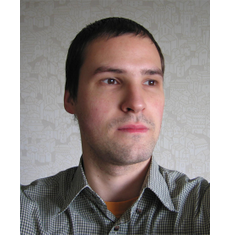
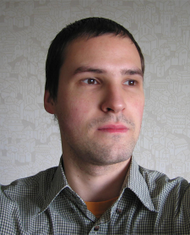
fixed photos layout in talks block fixed link colors

diff --git a/app/build/css/merged.css b/app/build/css/merged.css
@@ -1,3 +1,3 @@
 @import url("https://fonts.googleapis.com/css?family=Open+Sans:300,400,600,700&subset=cyrillic");
-/*! normalize.css v4.1.1 | MIT License | github.com/necolas/normalize.css */html{font-family:sans-serif;-ms-text-size-adjust:100%;-webkit-text-size-adjust:100%}body{margin:0}article,aside,details,figcaption,figure,footer,header,main,menu,nav,section,summary{display:block}audio,canvas,progress,video{display:inline-block}audio:not([controls]){display:none;height:0}progress{vertical-align:baseline}[hidden],template{display:none}a{background-color:transparent;-webkit-text-decoration-skip:objects}a:active,a:hover{outline-width:0}abbr[title]{border-bottom:none;text-decoration:underline;text-decoration:underline dotted}b,strong{font-weight:inherit;font-weight:bolder}dfn{font-style:italic}h1{font-size:2em;margin:.67em 0}mark{background-color:#ff0;color:#000}small{font-size:80%}sub,sup{font-size:75%;line-height:0;position:relative;vertical-align:baseline}sub{bottom:-.25em}sup{top:-.5em}img{border-style:none}svg:not(:root){overflow:hidden}code,kbd,pre,samp{font-family:monospace,monospace;font-size:1em}figure{margin:1em 40px}hr{box-sizing:content-box;height:0;overflow:visible}button,input,select,textarea{font:inherit;margin:0}optgroup{font-weight:700}button,input{overflow:visible}button,select{text-transform:none}[type=reset],[type=submit],button,html [type=button]{-webkit-appearance:button}[type=button]::-moz-focus-inner,[type=reset]::-moz-focus-inner,[type=submit]::-moz-focus-inner,button::-moz-focus-inner{border-style:none;padding:0}[type=button]:-moz-focusring,[type=reset]:-moz-focusring,[type=submit]:-moz-focusring,button:-moz-focusring{outline:1px dotted ButtonText}fieldset{border:1px solid silver;margin:0 2px;padding:.35em .625em .75em}legend{box-sizing:border-box;color:inherit;display:table;max-width:100%;padding:0;white-space:normal}textarea{overflow:auto}[type=checkbox],[type=radio]{box-sizing:border-box;padding:0}[type=number]::-webkit-inner-spin-button,[type=number]::-webkit-outer-spin-button{height:auto}[type=search]{-webkit-appearance:textfield;outline-offset:-2px}[type=search]::-webkit-search-cancel-button,[type=search]::-webkit-search-decoration{-webkit-appearance:none}::-webkit-input-placeholder{color:inherit;opacity:.54}::-webkit-file-upload-button{-webkit-appearance:button;font:inherit}html{font-size:5vmin;overflow-x:hidden;font-family:Open Sans,sans-serif;color:#4f4f4f}h1,h2,h3,h4,h5,h6{color:#2b2a29}.mixin-flex{display:-webkit-box;display:-ms-flexbox;display:flex;-ms-flex-negative:0;flex-shrink:0;-webkit-box-flex:0;-ms-flex-positive:0;flex-grow:0}.cpp-r{width:100vw}.cpp-r_wrap{width:100vw;box-sizing:border-box;padding:.8rem}.cpp-r_footer{min-height:4.5rem;background:#2b2a29;color:#fff;box-sizing:border-box;padding-top:.5rem;font-size:1rem;font-weight:400;line-height:1.5rem}.cpp-b_responsive-row-cols{-ms-flex-negative:0;flex-shrink:0;-ms-flex-wrap:wrap;flex-wrap:wrap}.cpp-b_responsive-row-cols,.cpp-b_responsive-row-cols .row-col{display:-webkit-box;display:-ms-flexbox;display:flex;-webkit-box-orient:vertical;-webkit-box-direction:normal;-ms-flex-direction:column;flex-direction:column}.cpp-b_responsive-row-cols .row-col{-webkit-box-align:center;-ms-flex-align:center;align-items:center;padding-bottom:1rem}.cpp-b_main-menu .cpp-b_main-menu-links{-ms-flex-wrap:wrap;flex-wrap:wrap;font-size:1rem;font-weight:300;line-height:2.375rem;-webkit-box-orient:vertical;-webkit-box-direction:normal;-ms-flex-direction:column;flex-direction:column;padding-top:1rem;padding-bottom:1rem}.cpp-b_main-menu .cpp-b_main-menu-links .main-menu_link{display:-webkit-box;display:-ms-flexbox;display:flex;margin-right:1.55rem}.cpp-b_main-menu .cpp-b_main-menu-links .main-menu_link a{display:-webkit-box;display:-ms-flexbox;display:flex;text-decoration:none;color:#4f4f4f}.cpp-b_main-menu .cpp-b_main-menu-links .main-menu_link a:hover{color:#5fb12c}.cpp-b_contacts{display:-webkit-box;display:-ms-flexbox;display:flex;-webkit-box-orient:vertical;-webkit-box-direction:normal;-ms-flex-direction:column;flex-direction:column;position:relative}.cpp-b_contacts .cpp-e_contact{font-size:1.125rem;font-weight:700;padding-left:2.37rem;height:1.5rem;-webkit-box-align:center;-ms-flex-align:center;align-items:center;margin-bottom:1rem;-ms-flex-negative:0;flex-shrink:0;white-space:nowrap;color:#4f4f4f}.cpp-b_contacts .cpp-e_contact a{color:inherit;text-decoration:none}.cpp-b_contacts .cpp-e_contact a:hover{color:#5fb12c}.cpp-b_contacts .cpp-e_contact.phone{background:url(../template/icon-call.svg) no-repeat 0 50%;background-size:auto 100%}.cpp-b_contacts .cpp-e_contact.email{background:url(../template/icon-mail.svg) no-repeat 0 78%;background-size:auto 1rem}.cpp-b_program-day{overflow:scroll;padding-left:.5rem;margin-bottom:4rem}.cpp-b_program-day .date{font-size:2.188rem;font-weight:300;position:relative;top:-.75rem;margin-bottom:0;color:#5fb12c}.cpp-b_program-day table{border:1px solid;border-collapse:collapse;box-sizing:border-box;table-layout:fixed;background:#fff}.cpp-b_program-day table tr,.cpp-b_program-day table tr td,.cpp-b_program-day table tr th{border:1px solid}.cpp-b_program-day table tr th{font-size:1.125rem;font-weight:700;line-height:1.625rem;text-transform:uppercase;padding:.65rem 0}.cpp-b_program-day table tr th a{color:inherit}.cpp-b_program-day table tr td{font-size:.938rem;font-weight:400;line-height:1.313rem;padding:1rem 1.3rem}.cpp-b_program-day table tr td a{color:#4f4f4f}.cpp-b_program-day table tr td a:hover{color:#5fb12c}.cpp-b_program-day table tr td:first-child{font-size:.938rem;font-weight:700;line-height:1.875rem;white-space:nowrap}.cpp-b_program-day .gray{background-color:#d9dadb}.cpp-b_program-day .speaker{color:#5fb12c;display:block;font-size:1rem;font-weight:600;line-height:1.313rem}.cpp-b_number-facts{-ms-flex-pack:distribute;justify-content:space-around}.cpp-b_number-facts,.cpp-b_number-facts .cpp-b_responsive-row-cols .number-fact{display:-webkit-box;display:-ms-flexbox;display:flex;-ms-flex-negative:0;flex-shrink:0;-webkit-box-flex:0;-ms-flex-positive:0;flex-grow:0}.cpp-b_number-facts .cpp-b_responsive-row-cols .number-fact{-webkit-box-orient:vertical;-webkit-box-direction:normal;-ms-flex-direction:column;flex-direction:column;-webkit-box-align:center;-ms-flex-align:center;align-items:center}.cpp-b_number-facts .cpp-b_responsive-row-cols .number-fact .number{font-size:5.125rem;font-weight:600;line-height:10.25rem;color:#5fb12c;margin-right:1.2rem}.cpp-b_number-facts .cpp-b_responsive-row-cols .number-fact .fact,.cpp-b_number-facts .cpp-b_responsive-row-cols .number-fact .number{display:-webkit-box;display:-ms-flexbox;display:flex;-ms-flex-negative:0;flex-shrink:0;-webkit-box-flex:0;-ms-flex-positive:0;flex-grow:0}.cpp-b_number-facts .cpp-b_responsive-row-cols .number-fact .fact{font-size:1.063rem;font-weight:400;line-height:1.563rem}.cpp-b_sidetext .sidetext-left img{width:11rem;padding-left:0;padding-top:2rem}.cpp-b_sidetext .sidetext-right{-webkit-box-align:start;-ms-flex-align:start;align-items:flex-start}.cpp-b_block-text{line-height:1.59rem}.cpp-b_block-text h1{line-height:2.4rem}.cpp-b_block-text h2{line-height:2rem}.cpp-b_block-text p{margin-bottom:1.65rem}.cpp-b_section{margin-bottom:1rem}.cpp-b_section.gray-section{background:url(../template/bg-gray-lines.jpg) 50% 0}.cpp-b_section.gray-section:last-child{margin-bottom:0;padding-bottom:6.25rem}.cpp-b_section.section-contacts{background:url(../template/bg-pluses-table.jpg) repeat-x 50% 50%;background-size:cover;margin-bottom:0}.cpp-b_section.section-contacts .cpp-r_wrap{padding:0}.cpp-b_section.section-contacts .cpp-b_responsive-row-cols .row-col{-webkit-box-align:start;-ms-flex-align:start;align-items:flex-start;padding-bottom:0}.cpp-b_section.section-contacts .cpp-b_responsive-row-cols .row-col:first-child{padding-left:.8rem}.cpp-b_copyrights a{color:#fff;display:inline-block;vertical-align:top;text-decoration:none;border-bottom:1px solid hsla(0,0%,100%,.7);height:1.3rem}.cpp-b_bordered-text{font-size:1rem;font-weight:700;line-height:1.563rem;padding:1.45rem 2rem;margin-top:.5rem;border:.188rem solid #2b2a29;color:#2b2a29}.cpp-b_talks{-webkit-box-orient:horizontal;-ms-flex-direction:row;flex-direction:row;-webkit-box-pack:start;-ms-flex-pack:start;justify-content:flex-start;-ms-flex-wrap:wrap;flex-wrap:wrap;padding:0}.cpp-b_talk,.cpp-b_talks,.cpp-b_talks_description{-webkit-box-direction:normal;display:-webkit-box;display:-ms-flexbox;display:flex}.cpp-b_talk,.cpp-b_talks_description{width:22.35rem;background:#fff;box-sizing:border-box;margin-bottom:1rem;-webkit-box-orient:vertical;-ms-flex-direction:column;flex-direction:column;-webkit-box-align:stretch!important;-ms-flex-align:stretch!important;align-items:stretch!important}.cpp-b_talk{margin-top:1.57rem;padding-left:2rem}.cpp-b_talk .talk-date-track{-webkit-box-orient:vertical;-webkit-box-direction:normal;-ms-flex-direction:column;flex-direction:column;padding-top:2rem;box-sizing:border-box}.cpp-b_talk .talk-date-track,.cpp-b_talk .talk-date-track .date{display:-webkit-box;display:-ms-flexbox;display:flex;-ms-flex-negative:0;flex-shrink:0}.cpp-b_talk .talk-date-track .date{font-size:1.813rem;font-weight:600;margin-bottom:.6rem}.cpp-b_talk .talk-date-track .track{display:-webkit-box;display:-ms-flexbox;display:flex;-ms-flex-negative:0;flex-shrink:0}.cpp-b_talk .talk-link{color:#5fb12c;text-decoration:none;font-size:1.125rem;font-weight:400;line-height:6.938rem}.cpp-b_talk .talk-speaker-photo{display:-webkit-box;display:-ms-flexbox;display:flex;-webkit-box-align:start;-ms-flex-align:start;align-items:flex-start;margin:1rem 0}.cpp-b_talk .talk-content-fixed{height:16rem;overflow:hidden;position:relative}.cpp-b_talk .talk-content-fixed:after{content:"";width:100%;height:3rem;position:absolute;bottom:0;background:-webkit-linear-gradient(top,hsla(0,0%,100%,0),#fff);background:linear-gradient(180deg,hsla(0,0%,100%,0) 0,#fff)}.cpp-b_talk .talk-head{-webkit-box-pack:justify;-ms-flex-pack:justify;justify-content:space-between;-webkit-box-orient:vertical;-webkit-box-direction:normal;-ms-flex-direction:column;flex-direction:column}.cpp-b_talk .talk-head,.cpp-b_talk .talk-speaker-name{display:-webkit-box;display:-ms-flexbox;display:flex;-ms-flex-negative:0;flex-shrink:0}.cpp-b_talk .talk-speaker-name{font-size:1rem;font-weight:300;height:2rem;line-height:1.313rem}.cpp-b_talk .talk-title{display:-webkit-box;display:-ms-flexbox;display:flex;-ms-flex-negative:0;flex-shrink:0;padding-right:1rem}.cpp-b_talk .talk-description{font-size:.875rem;font-weight:400;line-height:1.375rem;padding-right:2rem}.cpp-b_talks_description{background:none!important}.cpp-b_talks_description .bubble-link{width:9.188rem;height:7.438rem;box-sizing:border-box;color:#5fb12c;font-size:1.125rem;font-weight:700;line-height:1.375rem;background:url(../template/elem-want-be-speaker.png) no-repeat 0 0;background-size:100% auto;padding-left:1.4rem;padding-top:1.15rem;text-decoration:none;margin:0 auto}.cpp-b_content-centered{display:-webkit-box;display:-ms-flexbox;display:flex;-webkit-box-pack:center;-ms-flex-pack:center;justify-content:center;margin-top:1.1rem}.cpp-b_buy-tickets .buy-tickets-left{-webkit-box-align:start;-ms-flex-align:start;align-items:flex-start}.cpp-b_buy-tickets .buy-tickets-left .cpp-e_block-title{margin-bottom:4.9rem}.cpp-b_buy-tickets .buy-tickets-left .online{display:-webkit-box;display:-ms-flexbox;display:flex;width:100%}.cpp-b_buy-tickets .buy-tickets-left .online img{width:19.313rem;height:10.938rem}.cpp-b_buy-tickets .buy-tickets-left .cpp-b_block-text{margin-bottom:1.6rem}.cpp-b_buy-tickets .buy-tickets-right>div{width:100%}.cpp-b_only-desktop{display:none}.cpp-b_only-mobile{display:block}.cpp-b_sponsors,.cpp-b_sponsors .sponsor{margin-bottom:2rem}.cpp-b_sponsors .sponsor img{height:auto;max-width:100%;min-width:8rem}.cpp-e_green-button{width:12.563rem;height:2.75rem;background-color:#5fb12c;border-radius:3rem;text-align:center;line-height:2.75rem;text-decoration:none;outline:none;color:#fff;font-size:1.125rem;font-weight:600;cursor:pointer}.cpp-e_green-button:hover{background-color:#5ac716}.cpp-e_logo{display:-webkit-box;display:-ms-flexbox;display:flex;-ms-flex-negative:0;flex-shrink:0;-webkit-box-flex:0;-ms-flex-positive:0;flex-grow:0;width:10.75rem;height:6.188rem;background:url(../template/logo-cpp.svg) no-repeat 0 0;background-size:auto 100%}.cpp-e_page-title{font-size:1.438rem;line-height:2.688rem;font-weight:300;color:#2b2a29}.cpp-e_hash-link{display:block;height:0;position:relative;top:-4rem}.cpp-e_block-title{margin-bottom:3.7rem;position:relative}.cpp-e_block-title.mod-big{font-size:1.438rem;line-height:2.688rem;font-weight:300;color:#2b2a29}.cpp-e_block-title:after{content:"";background:#5fb12c;width:3.813rem;height:.188rem;left:0;bottom:-1.6rem;position:absolute}.cpp-e_speaker-name{font-size:1.25rem;font-weight:700;line-height:3.75rem;margin-top:.6rem;color:#4f4f4f}.cpp-e_title-small{position:relative;font-size:1.25rem;font-weight:600;line-height:1.625rem;margin-bottom:3.7rem}.cpp-e_title-small:after{content:"";background:#5fb12c;width:3.813rem;height:.188rem;left:0;bottom:-1.6rem;position:absolute}#google_map{width:100vw;height:20rem}@media only screen and (min-device-width:8in),only screen and (min-device-width:768px) and (max-device-width:1024px) and (orientation:landscape),only screen and (min-device-width:768px) and (max-device-width:1024px) and (orientation:landscape) and (-webkit-min-device-pixel-ratio:1),only screen and (min-device-width:768px) and (max-device-width:1024px) and (orientation:landscape) and (-webkit-min-device-pixel-ratio:2),only screen and (min-device-width:1024px) and (max-device-width:1366px) and (orientation:landscape) and (-webkit-min-device-pixel-ratio:2),only screen and (min-device-width:1024px) and (max-device-width:1366px) and (orientation:portrait) and (-webkit-min-device-pixel-ratio:2){html{font-size:.839vw}.cpp-e_logo{margin-right:2.6rem;margin-left:2.4rem;-webkit-transition:background-size .3s ease;transition:background-size .3s ease}.cpp-e_page-title{font-size:3.438rem;line-height:4.688rem;margin-left:2.2rem}.cpp-r{min-width:78.5rem}.cpp-r.main .cpp-e_page-title{margin-top:12.2rem}.cpp-r.main .cpp-r_header>.cpp-r_wrap{background:url(../template/bg-main-moscow.jpg) no-repeat 90.5% 0;background-size:48.5rem auto;padding-top:2.5rem}.cpp-r.talks .cpp-b_talks{margin-top:-9.5rem}.cpp-r_wrap{width:78.5rem;margin:0 auto;padding:1rem}.cpp-r_header .responsive-head{-webkit-transition:padding-top .3s ease;transition:padding-top .3s ease;width:100%;position:fixed;left:0;padding-top:.8rem;top:0;background:#fff}.cpp-r_header .responsive-head,.cpp-r_header .responsive-head .cpp-r_wrap{-webkit-box-pack:justify;-ms-flex-pack:justify;justify-content:space-between}.cpp-r_header .responsive-head .cpp-r_wrap{height:100%;padding-top:.2rem;padding-bottom:.2rem;padding-left:1.5rem}.cpp-r_header .responsive-head .cpp-r_wrap .row-col{-webkit-box-orient:horizontal;-webkit-box-direction:normal;-ms-flex-direction:row;flex-direction:row;-webkit-box-align:center;-ms-flex-align:center;align-items:center}.cpp-r_header .responsive-head.fixed{height:4rem;z-index:4;padding-top:0;border-bottom:1px solid}.cpp-r_header .responsive-head.fixed .row-col{height:100%}.cpp-r_header .responsive-head.fixed .cpp-e_logo{height:100%;background-size:auto 80%;background-position:0 50%}.cpp-r_header .responsive-head.fixed .cpp-b_contacts{top:.5rem}.cpp-r_header .responsive-head.fixed .cpp-b_contacts .cpp-e_contact.email{display:none}.cpp-b_page-top-description{background:url(../template/bg-pluses-page.jpg) repeat-y 50% 0;background-size:120rem;padding-bottom:10rem;margin-top:8.2rem}.cpp-b_talks{padding:1.4rem;padding-left:0;padding-top:3.2rem;padding-right:0}.cpp-b_only-desktop{display:block}.cpp-b_only-desktop.flex{display:-webkit-box;display:-ms-flexbox;display:flex}.cpp-b_only-mobile{display:none}.cpp-b_talk,.cpp-b_talks_description{height:37.063rem;margin:0 1.4rem}.cpp-b_talk{margin-top:1.6rem;margin-bottom:1rem}.cpp-b_talk .talk-head{-webkit-box-orient:horizontal;-webkit-box-direction:normal;-ms-flex-direction:row;flex-direction:row;height:13.4rem}.cpp-b_talk .talk-speaker-photo{display:-webkit-box;display:-ms-flexbox;display:flex;-webkit-box-align:start;-ms-flex-align:start;align-items:flex-start;margin:0}.cpp-b_talk .talk-speaker-photo img{display:-webkit-box;display:-ms-flexbox;display:flex;width:10.938rem;height:10.938rem}.cpp-b_talk .talk-date-track{padding-top:5.1rem}.cpp-b_talks_description{padding-left:2.2rem;padding-right:3rem}.cpp-b_talks_description .bubble-link{margin:0}.cpp-b_section{margin-bottom:4rem}.cpp-b_section.talks-section{padding-bottom:4.8rem;margin-bottom:6.25rem}.cpp-b_section.talks-section .cpp-r_wrap{padding-left:0}.cpp-b_section.section-contacts .cpp-r_wrap{padding:1rem;padding-top:0;padding-bottom:0}.cpp-b_section.section-contacts .cpp-b_responsive-row-cols .row-col:first-child{width:22rem;padding-right:2.5rem;padding-left:0}.cpp-b_section.section-contacts .cpp-b_responsive-row-cols .row-col:first-child .cpp-b_contacts{top:-.4rem!important}.cpp-b_section.section-contacts .cpp-b_responsive-row-cols .row-col:first-child .cpp-e_block-title{margin-top:2.3rem}.cpp-b_section.gray-section:last-child{padding-bottom:10.25rem}.cpp-b_responsive-row-cols{-webkit-box-orient:horizontal;-webkit-box-direction:normal;-ms-flex-direction:row;flex-direction:row}.cpp-b_responsive-row-cols .row-col{-webkit-box-align:left;-ms-flex-align:left;align-items:left;padding-bottom:0}.cpp-b_program-day{overflow:hidden;background:url(../template/bg-pluses-table.jpg) repeat-x 50% 50%;background-size:contain}.cpp-b_program-day .cpp-r_wrap{padding-top:0}.cpp-b_main-menu .cpp-b_main-menu-links{display:-webkit-box;display:-ms-flexbox;display:flex;-webkit-box-orient:horizontal;-webkit-box-direction:normal;-ms-flex-direction:row;flex-direction:row;padding-top:0;padding-bottom:0}.cpp-b_contacts{margin-right:2.9rem;top:2rem}.cpp-b_number-facts{-webkit-box-pack:end;-ms-flex-pack:end;justify-content:flex-end;padding-right:4rem}.cpp-b_number-facts .cpp-b_responsive-row-cols .number-fact{margin-right:3.3rem;-webkit-box-orient:horizontal;-webkit-box-direction:normal;-ms-flex-direction:row;flex-direction:row}.cpp-b_sidetext .sidetext-left{width:25.35rem}.cpp-b_sidetext .sidetext-left img{width:21.3rem;padding-left:.5rem}.cpp-b_sidetext .sidetext-right{width:51rem}.cpp-b_block-text{max-width:43rem}.cpp-b_content-centered{padding-right:3rem}.cpp-b_sponsors{-webkit-box-pack:start;-ms-flex-pack:start;justify-content:flex-start}.cpp-b_sponsors .sponsor{height:4.625rem;margin-right:6rem}.cpp-b_sponsors .sponsor a,.cpp-b_sponsors .sponsor img{height:100%;width:auto;display:block;min-width:0}.cpp-b_buy-tickets .buy-tickets-left{width:25rem;padding-top:1rem}.cpp-b_buy-tickets .buy-tickets-right{width:51rem}.cpp-e_main-menu-button{display:none}.cpp-e_block-title.mod-big{font-size:3.438rem;line-height:4.688rem;font-weight:300;margin-bottom:3.3rem;color:#2b2a29}#google_map{width:52rem;height:30rem}}@media screen and (orientation:landscape) and (-webkit-max-device-pixel-ratio:1.0416666666666667) and (max-device-width:1366px),screen and (orientation:landscape) and (max-resolution:100dpi) and (max-device-width:1366px){html{font-size:1.1vw}}@media only screen and (orientation:landscape) and (max-device-width:8in),only screen and (orientation:portrait) and (max-device-width:9in){.cpp-b_main-menu{width:4rem}.cpp-b_main-menu .cpp-b_main-menu-links{display:none;position:fixed;left:0;background:#fff;width:100%;border-bottom:.125rem solid;-webkit-box-pack:center;-ms-flex-pack:center;justify-content:center;-webkit-box-align:center;-ms-flex-align:center;align-items:center;text-align:center;top:4.1rem;padding-left:1.2rem}.cpp-b_main-menu .cpp-b_main-menu-links.collapsed{display:-webkit-box;display:-ms-flexbox;display:flex}.cpp-e_page-title{margin-top:4rem}.cpp-b_page-top-description{padding-top:4rem}.cpp-r_header{width:4rem}.cpp-r_header .responsive-head{position:fixed;background:#fff;height:4rem;border-bottom:.125rem solid;z-index:4}.cpp-r_header .responsive-head .cpp-r_wrap{height:100%;padding:0;-webkit-box-align:stretch;-ms-flex-align:stretch;align-items:stretch}.cpp-r_header .responsive-head .cpp-r_wrap .row-col{height:100%;-webkit-box-orient:horizontal;-webkit-box-direction:normal;-ms-flex-direction:row;flex-direction:row;width:100%;padding-bottom:0;-webkit-box-pack:justify;-ms-flex-pack:justify;justify-content:space-between}.cpp-r_header .responsive-head .cpp-r_wrap .row-col .cpp-e_logo{height:55%;margin:1rem}.cpp-r_header .responsive-head .cpp-r_wrap .row-col .cpp-b_main-menu{height:100%}.cpp-r_header .responsive-head .cpp-r_wrap .row-col .cpp-e_main-menu-button{display:-webkit-box;display:-ms-flexbox;display:flex;width:4rem;height:100%;background:url(../template/ham-menu.svg) no-repeat 50% 50%;background-size:80% auto}.cpp-r_header .responsive-head .cpp-b_contacts{display:none}}@media only screen and (min-device-width:768px) and (max-device-width:1024px),only screen and (min-device-width:768px) and (max-device-width:1024px) and (-webkit-min-device-pixel-ratio:1),only screen and (min-device-width:768px) and (max-device-width:1024px) and (-webkit-min-device-pixel-ratio:2),only screen and (min-device-width:1024px) and (max-device-width:1366px) and (orientation:landscape) and (-webkit-min-device-pixel-ratio:2),only screen and (min-device-width:1366px) and (max-device-width:1024px) and (orientation:portrait) and (-webkit-min-device-pixel-ratio:2){html{font-size:1.2vw}}@media only screen and (min-device-width:10in) and (max-device-width:13in){html{font-size:1.2vw}}
+/*! normalize.css v4.1.1 | MIT License | github.com/necolas/normalize.css */html{font-family:sans-serif;-ms-text-size-adjust:100%;-webkit-text-size-adjust:100%}body{margin:0}article,aside,details,figcaption,figure,footer,header,main,menu,nav,section,summary{display:block}audio,canvas,progress,video{display:inline-block}audio:not([controls]){display:none;height:0}progress{vertical-align:baseline}[hidden],template{display:none}a{background-color:transparent;-webkit-text-decoration-skip:objects}a:active,a:hover{outline-width:0}abbr[title]{border-bottom:none;text-decoration:underline;text-decoration:underline dotted}b,strong{font-weight:inherit;font-weight:bolder}dfn{font-style:italic}h1{font-size:2em;margin:.67em 0}mark{background-color:#ff0;color:#000}small{font-size:80%}sub,sup{font-size:75%;line-height:0;position:relative;vertical-align:baseline}sub{bottom:-.25em}sup{top:-.5em}img{border-style:none}svg:not(:root){overflow:hidden}code,kbd,pre,samp{font-family:monospace,monospace;font-size:1em}figure{margin:1em 40px}hr{box-sizing:content-box;height:0;overflow:visible}button,input,select,textarea{font:inherit;margin:0}optgroup{font-weight:700}button,input{overflow:visible}button,select{text-transform:none}[type=reset],[type=submit],button,html [type=button]{-webkit-appearance:button}[type=button]::-moz-focus-inner,[type=reset]::-moz-focus-inner,[type=submit]::-moz-focus-inner,button::-moz-focus-inner{border-style:none;padding:0}[type=button]:-moz-focusring,[type=reset]:-moz-focusring,[type=submit]:-moz-focusring,button:-moz-focusring{outline:1px dotted ButtonText}fieldset{border:1px solid silver;margin:0 2px;padding:.35em .625em .75em}legend{box-sizing:border-box;color:inherit;display:table;max-width:100%;padding:0;white-space:normal}textarea{overflow:auto}[type=checkbox],[type=radio]{box-sizing:border-box;padding:0}[type=number]::-webkit-inner-spin-button,[type=number]::-webkit-outer-spin-button{height:auto}[type=search]{-webkit-appearance:textfield;outline-offset:-2px}[type=search]::-webkit-search-cancel-button,[type=search]::-webkit-search-decoration{-webkit-appearance:none}::-webkit-input-placeholder{color:inherit;opacity:.54}::-webkit-file-upload-button{-webkit-appearance:button;font:inherit}html{font-size:5vmin;overflow-x:hidden;font-family:Open Sans,sans-serif;color:#4f4f4f}h1,h2,h3,h4,h5,h6{color:#2b2a29}.mixin-flex{display:-webkit-box;display:-ms-flexbox;display:flex;-ms-flex-negative:0;flex-shrink:0;-webkit-box-flex:0;-ms-flex-positive:0;flex-grow:0}.cpp-r{width:100vw}.cpp-r_wrap{width:100vw;box-sizing:border-box;padding:.8rem}.cpp-r_footer{min-height:4.5rem;background:#2b2a29;color:#fff;box-sizing:border-box;padding-top:.5rem;font-size:1rem;font-weight:400;line-height:1.5rem}.cpp-b_responsive-row-cols{-ms-flex-negative:0;flex-shrink:0;-ms-flex-wrap:wrap;flex-wrap:wrap}.cpp-b_responsive-row-cols,.cpp-b_responsive-row-cols .row-col{display:-webkit-box;display:-ms-flexbox;display:flex;-webkit-box-orient:vertical;-webkit-box-direction:normal;-ms-flex-direction:column;flex-direction:column}.cpp-b_responsive-row-cols .row-col{-webkit-box-align:center;-ms-flex-align:center;align-items:center;padding-bottom:1rem}.cpp-b_main-menu .cpp-b_main-menu-links{-ms-flex-wrap:wrap;flex-wrap:wrap;font-size:1rem;font-weight:300;line-height:2.375rem;-webkit-box-orient:vertical;-webkit-box-direction:normal;-ms-flex-direction:column;flex-direction:column;padding-top:1rem;padding-bottom:1rem}.cpp-b_main-menu .cpp-b_main-menu-links .main-menu_link{display:-webkit-box;display:-ms-flexbox;display:flex;margin-right:1.55rem}.cpp-b_main-menu .cpp-b_main-menu-links .main-menu_link a{display:-webkit-box;display:-ms-flexbox;display:flex;text-decoration:none;color:#4f4f4f}.cpp-b_main-menu .cpp-b_main-menu-links .main-menu_link a:hover{color:#5fb12c}.cpp-b_contacts{display:-webkit-box;display:-ms-flexbox;display:flex;-webkit-box-orient:vertical;-webkit-box-direction:normal;-ms-flex-direction:column;flex-direction:column;position:relative}.cpp-b_contacts .cpp-e_contact{font-size:1.125rem;font-weight:700;padding-left:2.37rem;height:1.5rem;-webkit-box-align:center;-ms-flex-align:center;align-items:center;margin-bottom:1rem;-ms-flex-negative:0;flex-shrink:0;white-space:nowrap;color:#4f4f4f}.cpp-b_contacts .cpp-e_contact a{color:inherit;text-decoration:none}.cpp-b_contacts .cpp-e_contact a:hover{color:#5fb12c}.cpp-b_contacts .cpp-e_contact.phone{background:url(../template/icon-call.svg) no-repeat 0 50%;background-size:auto 100%}.cpp-b_contacts .cpp-e_contact.email{background:url(../template/icon-mail.svg) no-repeat 0 78%;background-size:auto 1rem}.cpp-b_program-day{overflow:scroll;padding-left:.5rem;margin-bottom:4rem}.cpp-b_program-day .date{font-size:2.188rem;font-weight:300;position:relative;top:-.75rem;margin-bottom:0;color:#5fb12c}.cpp-b_program-day table{border:1px solid;border-collapse:collapse;box-sizing:border-box;table-layout:fixed;background:#fff}.cpp-b_program-day table tr,.cpp-b_program-day table tr td,.cpp-b_program-day table tr th{border:1px solid}.cpp-b_program-day table tr th{font-size:1.125rem;font-weight:700;line-height:1.625rem;text-transform:uppercase;padding:.65rem 0}.cpp-b_program-day table tr th a{color:inherit}.cpp-b_program-day table tr td{font-size:.938rem;font-weight:400;line-height:1.313rem;padding:1rem 1.3rem}.cpp-b_program-day table tr td a{color:#4f4f4f}.cpp-b_program-day table tr td a:hover{color:#5fb12c}.cpp-b_program-day table tr td:first-child{font-size:.938rem;font-weight:700;line-height:1.875rem;white-space:nowrap}.cpp-b_program-day .gray{background-color:#d9dadb}.cpp-b_program-day .speaker{color:#5fb12c;display:block;font-size:1rem;font-weight:600;line-height:1.313rem}.cpp-b_number-facts{-ms-flex-pack:distribute;justify-content:space-around}.cpp-b_number-facts,.cpp-b_number-facts .cpp-b_responsive-row-cols .number-fact{display:-webkit-box;display:-ms-flexbox;display:flex;-ms-flex-negative:0;flex-shrink:0;-webkit-box-flex:0;-ms-flex-positive:0;flex-grow:0}.cpp-b_number-facts .cpp-b_responsive-row-cols .number-fact{-webkit-box-orient:vertical;-webkit-box-direction:normal;-ms-flex-direction:column;flex-direction:column;-webkit-box-align:center;-ms-flex-align:center;align-items:center}.cpp-b_number-facts .cpp-b_responsive-row-cols .number-fact .number{font-size:5.125rem;font-weight:600;line-height:10.25rem;color:#5fb12c;margin-right:1.2rem}.cpp-b_number-facts .cpp-b_responsive-row-cols .number-fact .fact,.cpp-b_number-facts .cpp-b_responsive-row-cols .number-fact .number{display:-webkit-box;display:-ms-flexbox;display:flex;-ms-flex-negative:0;flex-shrink:0;-webkit-box-flex:0;-ms-flex-positive:0;flex-grow:0}.cpp-b_number-facts .cpp-b_responsive-row-cols .number-fact .fact{font-size:1.063rem;font-weight:400;line-height:1.563rem}.cpp-b_sidetext .sidetext-left img{width:11rem;padding-left:0;padding-top:2rem}.cpp-b_sidetext .sidetext-right{-webkit-box-align:start;-ms-flex-align:start;align-items:flex-start}.cpp-b_block-text{line-height:1.59rem}.cpp-b_block-text h1{line-height:2.4rem}.cpp-b_block-text h2{line-height:2rem}.cpp-b_block-text p{margin-bottom:1.65rem}.cpp-b_section{margin-bottom:1rem}.cpp-b_section.gray-section{background:url(../template/bg-gray-lines.jpg) 50% 0}.cpp-b_section.gray-section:last-child{margin-bottom:0;padding-bottom:6.25rem}.cpp-b_section.section-contacts{background:url(../template/bg-pluses-table.jpg) repeat-x 50% 50%;background-size:cover;margin-bottom:0}.cpp-b_section.section-contacts .cpp-r_wrap{padding:0}.cpp-b_section.section-contacts .cpp-b_responsive-row-cols .row-col{-webkit-box-align:start;-ms-flex-align:start;align-items:flex-start;padding-bottom:0}.cpp-b_section.section-contacts .cpp-b_responsive-row-cols .row-col:first-child{padding-left:.8rem}.cpp-b_copyrights a{color:#fff;display:inline-block;vertical-align:top;text-decoration:none;border-bottom:1px solid hsla(0,0%,100%,.7);height:1.3rem}.cpp-b_bordered-text{font-size:1rem;font-weight:700;line-height:1.563rem;padding:1.45rem 2rem;margin-top:.5rem;border:.188rem solid #2b2a29;color:#2b2a29}.cpp-b_talks{-webkit-box-orient:horizontal;-ms-flex-direction:row;flex-direction:row;-webkit-box-pack:start;-ms-flex-pack:start;justify-content:flex-start;-ms-flex-wrap:wrap;flex-wrap:wrap;padding:0}.cpp-b_talk,.cpp-b_talks,.cpp-b_talks_description{-webkit-box-direction:normal;display:-webkit-box;display:-ms-flexbox;display:flex}.cpp-b_talk,.cpp-b_talks_description{width:22.35rem;background:#fff;box-sizing:border-box;margin-bottom:1rem;-webkit-box-orient:vertical;-ms-flex-direction:column;flex-direction:column;-webkit-box-align:stretch!important;-ms-flex-align:stretch!important;align-items:stretch!important}.cpp-b_talk{margin-top:1.57rem;padding-left:2rem}.cpp-b_talk .talk-date-track{-webkit-box-orient:vertical;-webkit-box-direction:normal;-ms-flex-direction:column;flex-direction:column;padding-top:2rem;box-sizing:border-box}.cpp-b_talk .talk-date-track,.cpp-b_talk .talk-date-track .date{display:-webkit-box;display:-ms-flexbox;display:flex;-ms-flex-negative:0;flex-shrink:0}.cpp-b_talk .talk-date-track .date{font-size:1.813rem;font-weight:600;margin-bottom:.6rem}.cpp-b_talk .talk-date-track .track{display:-webkit-box;display:-ms-flexbox;display:flex;-ms-flex-negative:0;flex-shrink:0}.cpp-b_talk .talk-link{color:#5fb12c;text-decoration:none;font-size:1.125rem;font-weight:400;line-height:6.938rem}.cpp-b_talk .talk-speaker-photo{display:-webkit-box;display:-ms-flexbox;display:flex;-webkit-box-align:start;-ms-flex-align:start;align-items:flex-start;margin:1rem 0}.cpp-b_talk .talk-content-fixed{height:16rem;overflow:hidden;position:relative}.cpp-b_talk .talk-content-fixed:after{content:"";width:100%;height:3rem;position:absolute;bottom:0;background:-webkit-linear-gradient(top,hsla(0,0%,100%,0),#fff);background:linear-gradient(180deg,hsla(0,0%,100%,0) 0,#fff)}.cpp-b_talk .talk-head{-webkit-box-pack:justify;-ms-flex-pack:justify;justify-content:space-between;-webkit-box-orient:vertical;-webkit-box-direction:normal;-ms-flex-direction:column;flex-direction:column}.cpp-b_talk .talk-head,.cpp-b_talk .talk-speaker-name{display:-webkit-box;display:-ms-flexbox;display:flex;-ms-flex-negative:0;flex-shrink:0}.cpp-b_talk .talk-speaker-name{font-size:1rem;font-weight:300;height:2rem;line-height:1.313rem}.cpp-b_talk .talk-title{display:-webkit-box;display:-ms-flexbox;display:flex;-ms-flex-negative:0;flex-shrink:0;padding-right:1rem}.cpp-b_talk .talk-description{font-size:.875rem;font-weight:400;line-height:1.375rem;padding-right:2rem}.cpp-b_talk .talk-description a{color:#5fb12c}.cpp-b_talk .talk-description a:hover{color:#4f4f4f}.cpp-b_talks_description{background:none!important}.cpp-b_talks_description .bubble-link{width:9.188rem;height:7.438rem;box-sizing:border-box;color:#5fb12c;font-size:1.125rem;font-weight:700;line-height:1.375rem;background:url(../template/elem-want-be-speaker.png) no-repeat 0 0;background-size:100% auto;padding-left:1.4rem;padding-top:1.15rem;text-decoration:none;margin:0 auto}.cpp-b_content-centered{display:-webkit-box;display:-ms-flexbox;display:flex;-webkit-box-pack:center;-ms-flex-pack:center;justify-content:center;margin-top:1.1rem}.cpp-b_buy-tickets .buy-tickets-left{-webkit-box-align:start;-ms-flex-align:start;align-items:flex-start}.cpp-b_buy-tickets .buy-tickets-left .cpp-e_block-title{margin-bottom:4.9rem}.cpp-b_buy-tickets .buy-tickets-left .online{display:-webkit-box;display:-ms-flexbox;display:flex;width:100%}.cpp-b_buy-tickets .buy-tickets-left .online img{width:19.313rem;height:10.938rem}.cpp-b_buy-tickets .buy-tickets-left .cpp-b_block-text{margin-bottom:1.6rem}.cpp-b_buy-tickets .buy-tickets-right>div{width:100%}.cpp-b_only-desktop{display:none}.cpp-b_only-mobile{display:block}.cpp-b_sponsors,.cpp-b_sponsors .sponsor{margin-bottom:2rem}.cpp-b_sponsors .sponsor img{height:auto;max-width:100%;min-width:8rem}.cpp-e_green-button{width:12.563rem;height:2.75rem;background-color:#5fb12c;border-radius:3rem;text-align:center;line-height:2.75rem;text-decoration:none;outline:none;color:#fff;font-size:1.125rem;font-weight:600;cursor:pointer}.cpp-e_green-button:hover{background-color:#5ac716}.cpp-e_logo{display:-webkit-box;display:-ms-flexbox;display:flex;-ms-flex-negative:0;flex-shrink:0;-webkit-box-flex:0;-ms-flex-positive:0;flex-grow:0;width:10.75rem;height:6.188rem;background:url(../template/logo-cpp.svg) no-repeat 0 0;background-size:auto 100%}.cpp-e_page-title{font-size:1.438rem;line-height:2.688rem;font-weight:300;color:#2b2a29}.cpp-e_hash-link{display:block;height:0;position:relative;top:-4rem}.cpp-e_block-title{margin-bottom:3.7rem;position:relative}.cpp-e_block-title.mod-big{font-size:1.438rem;line-height:2.688rem;font-weight:300;color:#2b2a29}.cpp-e_block-title:after{content:"";background:#5fb12c;width:3.813rem;height:.188rem;left:0;bottom:-1.6rem;position:absolute}.cpp-e_speaker-name{font-size:1.25rem;font-weight:700;line-height:3.75rem;margin-top:.6rem;color:#4f4f4f}.cpp-e_title-small{position:relative;font-size:1.25rem;font-weight:600;line-height:1.625rem;margin-bottom:3.7rem}.cpp-e_title-small:after{content:"";background:#5fb12c;width:3.813rem;height:.188rem;left:0;bottom:-1.6rem;position:absolute}#google_map{width:100vw;height:20rem}@media only screen and (min-device-width:8in),only screen and (min-device-width:768px) and (max-device-width:1024px) and (orientation:landscape),only screen and (min-device-width:768px) and (max-device-width:1024px) and (orientation:landscape) and (-webkit-min-device-pixel-ratio:1),only screen and (min-device-width:768px) and (max-device-width:1024px) and (orientation:landscape) and (-webkit-min-device-pixel-ratio:2),only screen and (min-device-width:1024px) and (max-device-width:1366px) and (orientation:landscape) and (-webkit-min-device-pixel-ratio:2),only screen and (min-device-width:1024px) and (max-device-width:1366px) and (orientation:portrait) and (-webkit-min-device-pixel-ratio:2){html{font-size:.839vw}.cpp-e_logo{margin-right:2.6rem;margin-left:2.4rem;-webkit-transition:background-size .3s ease;transition:background-size .3s ease}.cpp-e_page-title{font-size:3.438rem;line-height:4.688rem;margin-left:2.2rem}.cpp-r{min-width:78.5rem}.cpp-r.main .cpp-e_page-title{margin-top:12.2rem}.cpp-r.main .cpp-r_header>.cpp-r_wrap{background:url(../template/bg-main-moscow.jpg) no-repeat 90.5% 0;background-size:48.5rem auto;padding-top:2.5rem}.cpp-r.talks .cpp-b_talks{margin-top:-9.5rem}.cpp-r_wrap{width:78.5rem;margin:0 auto;padding:1rem}.cpp-r_header .responsive-head{-webkit-transition:padding-top .3s ease;transition:padding-top .3s ease;width:100%;position:fixed;left:0;padding-top:.8rem;top:0;background:#fff}.cpp-r_header .responsive-head,.cpp-r_header .responsive-head .cpp-r_wrap{-webkit-box-pack:justify;-ms-flex-pack:justify;justify-content:space-between}.cpp-r_header .responsive-head .cpp-r_wrap{height:100%;padding-top:.2rem;padding-bottom:.2rem;padding-left:1.5rem}.cpp-r_header .responsive-head .cpp-r_wrap .row-col{-webkit-box-orient:horizontal;-webkit-box-direction:normal;-ms-flex-direction:row;flex-direction:row;-webkit-box-align:center;-ms-flex-align:center;align-items:center}.cpp-r_header .responsive-head.fixed{height:4rem;z-index:4;padding-top:0;border-bottom:1px solid}.cpp-r_header .responsive-head.fixed .row-col{height:100%}.cpp-r_header .responsive-head.fixed .cpp-e_logo{height:100%;background-size:auto 80%;background-position:0 50%}.cpp-r_header .responsive-head.fixed .cpp-b_contacts{top:.5rem}.cpp-r_header .responsive-head.fixed .cpp-b_contacts .cpp-e_contact.email{display:none}.cpp-b_page-top-description{background:url(../template/bg-pluses-page.jpg) repeat-y 50% 0;background-size:120rem;padding-bottom:10rem;margin-top:8.2rem}.cpp-b_talks{padding:1.4rem;padding-left:0;padding-top:3.2rem;padding-right:0}.cpp-b_only-desktop{display:block}.cpp-b_only-desktop.flex{display:-webkit-box;display:-ms-flexbox;display:flex}.cpp-b_only-mobile{display:none}.cpp-b_talk,.cpp-b_talks_description{height:37.063rem;margin:0 1.4rem}.cpp-b_talk{margin-top:1.6rem;margin-bottom:1rem}.cpp-b_talk .talk-head{-webkit-box-orient:horizontal;-webkit-box-direction:normal;-ms-flex-direction:row;flex-direction:row;height:13.4rem}.cpp-b_talk .talk-speaker-photo{display:-webkit-box;display:-ms-flexbox;display:flex;-webkit-box-align:start;-ms-flex-align:start;align-items:flex-start;margin:0}.cpp-b_talk .talk-speaker-photo img{display:-webkit-box;display:-ms-flexbox;display:flex;height:10.938rem}.cpp-b_talk .talk-date-track{padding-top:5.1rem}.cpp-b_talks_description{padding-left:2.2rem;padding-right:3rem}.cpp-b_talks_description .bubble-link{margin:0}.cpp-b_section{margin-bottom:4rem}.cpp-b_section.talks-section{padding-bottom:4.8rem;margin-bottom:6.25rem}.cpp-b_section.talks-section .cpp-r_wrap{padding-left:0}.cpp-b_section.section-contacts .cpp-r_wrap{padding:1rem;padding-top:0;padding-bottom:0}.cpp-b_section.section-contacts .cpp-b_responsive-row-cols .row-col:first-child{width:22rem;padding-right:2.5rem;padding-left:0}.cpp-b_section.section-contacts .cpp-b_responsive-row-cols .row-col:first-child .cpp-b_contacts{top:-.4rem!important}.cpp-b_section.section-contacts .cpp-b_responsive-row-cols .row-col:first-child .cpp-e_block-title{margin-top:2.3rem}.cpp-b_section.gray-section:last-child{padding-bottom:10.25rem}.cpp-b_responsive-row-cols{-webkit-box-orient:horizontal;-webkit-box-direction:normal;-ms-flex-direction:row;flex-direction:row}.cpp-b_responsive-row-cols .row-col{-webkit-box-align:left;-ms-flex-align:left;align-items:left;padding-bottom:0}.cpp-b_program-day{overflow:hidden;background:url(../template/bg-pluses-table.jpg) repeat-x 50% 50%;background-size:contain}.cpp-b_program-day .cpp-r_wrap{padding-top:0}.cpp-b_main-menu .cpp-b_main-menu-links{display:-webkit-box;display:-ms-flexbox;display:flex;-webkit-box-orient:horizontal;-webkit-box-direction:normal;-ms-flex-direction:row;flex-direction:row;padding-top:0;padding-bottom:0}.cpp-b_contacts{margin-right:2.9rem;top:2rem}.cpp-b_number-facts{-webkit-box-pack:end;-ms-flex-pack:end;justify-content:flex-end;padding-right:4rem}.cpp-b_number-facts .cpp-b_responsive-row-cols .number-fact{margin-right:3.3rem;-webkit-box-orient:horizontal;-webkit-box-direction:normal;-ms-flex-direction:row;flex-direction:row}.cpp-b_sidetext .sidetext-left{width:25.35rem}.cpp-b_sidetext .sidetext-left img{width:21.3rem;padding-left:.5rem}.cpp-b_sidetext .sidetext-right{width:51rem}.cpp-b_block-text{max-width:43rem}.cpp-b_block-text a{color:#5fb12c}.cpp-b_block-text a:hover{color:#4f4f4f}.cpp-b_content-centered{padding-right:3rem}.cpp-b_sponsors{-webkit-box-pack:start;-ms-flex-pack:start;justify-content:flex-start}.cpp-b_sponsors .sponsor{height:4.625rem;margin-right:6rem}.cpp-b_sponsors .sponsor a,.cpp-b_sponsors .sponsor img{height:100%;width:auto;display:block;min-width:0}.cpp-b_buy-tickets .buy-tickets-left{width:25rem;padding-top:1rem}.cpp-b_buy-tickets .buy-tickets-right{width:51rem}.cpp-e_main-menu-button{display:none}.cpp-e_block-title.mod-big{font-size:3.438rem;line-height:4.688rem;font-weight:300;margin-bottom:3.3rem;color:#2b2a29}#google_map{width:52rem;height:30rem}}@media screen and (orientation:landscape) and (-webkit-max-device-pixel-ratio:1.0416666666666667) and (max-device-width:1366px),screen and (orientation:landscape) and (max-resolution:100dpi) and (max-device-width:1366px){html{font-size:1.1vw}}@media only screen and (orientation:landscape) and (max-device-width:8in),only screen and (orientation:portrait) and (max-device-width:9in){.cpp-b_main-menu{width:4rem}.cpp-b_main-menu .cpp-b_main-menu-links{display:none;position:fixed;left:0;background:#fff;width:100%;border-bottom:.125rem solid;-webkit-box-pack:center;-ms-flex-pack:center;justify-content:center;-webkit-box-align:center;-ms-flex-align:center;align-items:center;text-align:center;top:4.1rem;padding-left:1.2rem}.cpp-b_main-menu .cpp-b_main-menu-links.collapsed{display:-webkit-box;display:-ms-flexbox;display:flex}.cpp-e_page-title{margin-top:4rem}.cpp-b_page-top-description{padding-top:4rem}.cpp-r_header{width:4rem}.cpp-r_header .responsive-head{position:fixed;background:#fff;height:4rem;border-bottom:.125rem solid;z-index:4}.cpp-r_header .responsive-head .cpp-r_wrap{height:100%;padding:0;-webkit-box-align:stretch;-ms-flex-align:stretch;align-items:stretch}.cpp-r_header .responsive-head .cpp-r_wrap .row-col{height:100%;-webkit-box-orient:horizontal;-webkit-box-direction:normal;-ms-flex-direction:row;flex-direction:row;width:100%;padding-bottom:0;-webkit-box-pack:justify;-ms-flex-pack:justify;justify-content:space-between}.cpp-r_header .responsive-head .cpp-r_wrap .row-col .cpp-e_logo{height:55%;margin:1rem}.cpp-r_header .responsive-head .cpp-r_wrap .row-col .cpp-b_main-menu{height:100%}.cpp-r_header .responsive-head .cpp-r_wrap .row-col .cpp-e_main-menu-button{display:-webkit-box;display:-ms-flexbox;display:flex;width:4rem;height:100%;background:url(../template/ham-menu.svg) no-repeat 50% 50%;background-size:80% auto}.cpp-r_header .responsive-head .cpp-b_contacts{display:none}}@media only screen and (min-device-width:768px) and (max-device-width:1024px),only screen and (min-device-width:768px) and (max-device-width:1024px) and (-webkit-min-device-pixel-ratio:1),only screen and (min-device-width:768px) and (max-device-width:1024px) and (-webkit-min-device-pixel-ratio:2),only screen and (min-device-width:1024px) and (max-device-width:1366px) and (orientation:landscape) and (-webkit-min-device-pixel-ratio:2),only screen and (min-device-width:1366px) and (max-device-width:1024px) and (orientation:portrait) and (-webkit-min-device-pixel-ratio:2){html{font-size:1.2vw}}@media only screen and (min-device-width:10in) and (max-device-width:13in){html{font-size:1.2vw}}
 /*# sourceMappingURL=merged.css.map */

diff --git a/app/frontend/styles/main.less b/app/frontend/styles/main.less
@@ -371,6 +371,12 @@ h1, h2, h3, h4, h5, h6 {
     font-weight: 400;
     line-height: 1.375rem;
     padding-right: 2rem;
+    a {
+      color: @cpp_color;
+      &:hover {
+        color: @text_color_default;
+      }
+    }
   }
 }
 .cpp-b_talks_description {
@@ -660,7 +666,7 @@ only screen and (min-device-width : 1024px) and (max-device-width : 1366px) and 
       margin: 0;
       img {
         display: flex;
-        width: 10.938rem;
+       // width: 10.938rem;
         height: 10.938rem;
       }
     }
@@ -765,6 +771,12 @@ only screen and (min-device-width : 1024px) and (max-device-width : 1366px) and 
     max-width: 43rem;
     p {
 
+    }
+    a {
+      color: @cpp_color;
+      &:hover {
+        color: @text_color_default;
+      }
     }
   }
   .cpp-b_content-centered {
